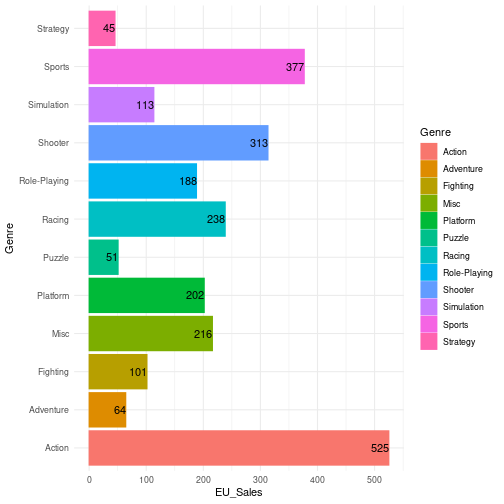
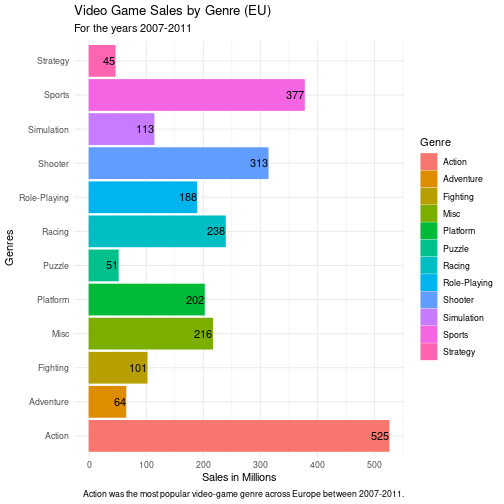
Modified formatting and typos, started the groundwork for CSS tidying-up, and added graphs for JP region.  Also modified conclusion heavily.
Still major work to be done for formatting tweaks.

diff --git a/projectgroup3/presentation.html b/projectgroup3/presentation.html
@@ -16,7 +16,7 @@ class: center, middle, inverse, title-slide
 ## DATA 325 | Dr. Andrew Hall
 ### Krist Adofo | Taylor Memon | Roey Stern | Nicholas Metzger | Nicholas McKenna
 ### Marymount University
-### 4/15/21
+### 4/16/21
 
 ---
 
@@ -30,7 +30,7 @@ For our Data final project, we chose the “Video Game Sales” dataset from **K
 
 --
 
-“Video Game Sales” was published by Gregory Smith on Kaggle in 2017PerPe. The dataset has a list of video games with sales of over 100,000 copies worldwide between the years 2007-2011. The data was collected from the website VGChartz, which is a business intelligence research firm that was founded in 2005 by Brett Walton. VGChartz offers consumers access to their 55,000+ large database on video games which includes sales data, reviews, news, and a forum. 
+“Video Game Sales” was published by Gregory Smith on Kaggle in 2017. The dataset has a list of video games with sales of over 100,000 copies worldwide between the years 2007-2011. The data was collected from the website VGChartz, which is a business intelligence research firm that was founded in 2005 by Brett Walton. VGChartz offers consumers access to their 55,000+ large database on video games which includes sales data, reviews, news, and a forum. 
 
 ---
 background-image: url("https://techcrunch.com/wp-content/uploads/2020/06/igor-karimov-M1nZU61xTK4-unsplash.jpg?w=1390&amp;crop=1")
@@ -74,7 +74,7 @@ library(formattable)
 library(skimr)
 ```
 --
-Using these packages we can save the dataset using *&lt;u&gt;read_csv&lt;/u&gt;* and later edit our tabels.
+Using these packages we can save the dataset using *&lt;u&gt;read_csv&lt;/u&gt;* and later edit our tables.
 
 
 ```r
@@ -129,7 +129,7 @@ Table: Data summary
 
 
 ```r
-vgslaes_1_glimpse
+vgsales_1_glimpse
 ```
 
 
@@ -290,46 +290,189 @@ class: center
 &lt;/tbody&gt;
 &lt;/table&gt;
 ---
-
-
-```
-## # A tibble: 12 x 2
-##    Genre        EU_Sales
-##    &lt;chr&gt;           &lt;dbl&gt;
-##  1 Action          525  
-##  2 Sports          377. 
-##  3 Shooter         313. 
-##  4 Racing          238. 
-##  5 Misc            216. 
-##  6 Platform        202. 
-##  7 Role-Playing    188. 
-##  8 Simulation      113. 
-##  9 Fighting        101. 
-## 10 Adventure        64.1
-## 11 Puzzle           50.8
-## 12 Strategy         45.3
-```
-
+column-count: 3;
+column-width: auto;
+#Regional Breakdown
 ---
 
+&lt;table class="table table-condensed"&gt;
+ &lt;thead&gt;
+  &lt;tr&gt;
+   &lt;th style="text-align:center;"&gt; Genre &lt;/th&gt;
+   &lt;th style="text-align:center;"&gt; EU_Sales &lt;/th&gt;
+  &lt;/tr&gt;
+ &lt;/thead&gt;
+&lt;tbody&gt;
+  &lt;tr&gt;
+   &lt;td style="text-align:center;"&gt; &lt;span style="color: orange; font-weight: bold"&gt;Action      &lt;/span&gt; &lt;/td&gt;
+   &lt;td style="text-align:center;"&gt; &lt;span style="display: block; padding: 0 4px; border-radius: 4px; background-color: #add8e6"&gt;525.00&lt;/span&gt; &lt;/td&gt;
+  &lt;/tr&gt;
+  &lt;tr&gt;
+   &lt;td style="text-align:center;"&gt; &lt;span style="color: orange; font-weight: bold"&gt;Sports      &lt;/span&gt; &lt;/td&gt;
+   &lt;td style="text-align:center;"&gt; &lt;span style="display: block; padding: 0 4px; border-radius: 4px; background-color: #add8e6"&gt;376.85&lt;/span&gt; &lt;/td&gt;
+  &lt;/tr&gt;
+  &lt;tr&gt;
+   &lt;td style="text-align:center;"&gt; &lt;span style="color: orange; font-weight: bold"&gt;Shooter     &lt;/span&gt; &lt;/td&gt;
+   &lt;td style="text-align:center;"&gt; &lt;span style="display: block; padding: 0 4px; border-radius: 4px; background-color: #add8e6"&gt;313.27&lt;/span&gt; &lt;/td&gt;
+  &lt;/tr&gt;
+  &lt;tr&gt;
+   &lt;td style="text-align:center;"&gt; &lt;span style="color: orange; font-weight: bold"&gt;Racing      &lt;/span&gt; &lt;/td&gt;
+   &lt;td style="text-align:center;"&gt; &lt;span style="display: block; padding: 0 4px; border-radius: 4px; background-color: #add8e6"&gt;238.39&lt;/span&gt; &lt;/td&gt;
+  &lt;/tr&gt;
+  &lt;tr&gt;
+   &lt;td style="text-align:center;"&gt; &lt;span style="color: orange; font-weight: bold"&gt;Misc        &lt;/span&gt; &lt;/td&gt;
+   &lt;td style="text-align:center;"&gt; &lt;span style="display: block; padding: 0 4px; border-radius: 4px; background-color: #add8e6"&gt;215.98&lt;/span&gt; &lt;/td&gt;
+  &lt;/tr&gt;
+  &lt;tr&gt;
+   &lt;td style="text-align:center;"&gt; &lt;span style="color: orange; font-weight: bold"&gt;Platform    &lt;/span&gt; &lt;/td&gt;
+   &lt;td style="text-align:center;"&gt; &lt;span style="display: block; padding: 0 4px; border-radius: 4px; background-color: #add8e6"&gt;201.63&lt;/span&gt; &lt;/td&gt;
+  &lt;/tr&gt;
+  &lt;tr&gt;
+   &lt;td style="text-align:center;"&gt; &lt;span style="color: orange; font-weight: bold"&gt;Role-Playing&lt;/span&gt; &lt;/td&gt;
+   &lt;td style="text-align:center;"&gt; &lt;span style="display: block; padding: 0 4px; border-radius: 4px; background-color: #add8e6"&gt;188.06&lt;/span&gt; &lt;/td&gt;
+  &lt;/tr&gt;
+  &lt;tr&gt;
+   &lt;td style="text-align:center;"&gt; &lt;span style="color: orange; font-weight: bold"&gt;Simulation  &lt;/span&gt; &lt;/td&gt;
+   &lt;td style="text-align:center;"&gt; &lt;span style="display: block; padding: 0 4px; border-radius: 4px; background-color: #add8e6"&gt;113.38&lt;/span&gt; &lt;/td&gt;
+  &lt;/tr&gt;
+  &lt;tr&gt;
+   &lt;td style="text-align:center;"&gt; &lt;span style="color: orange; font-weight: bold"&gt;Fighting    &lt;/span&gt; &lt;/td&gt;
+   &lt;td style="text-align:center;"&gt; &lt;span style="display: block; padding: 0 4px; border-radius: 4px; background-color: #add8e6"&gt;101.32&lt;/span&gt; &lt;/td&gt;
+  &lt;/tr&gt;
+  &lt;tr&gt;
+   &lt;td style="text-align:center;"&gt; &lt;span style="color: orange; font-weight: bold"&gt;Adventure   &lt;/span&gt; &lt;/td&gt;
+   &lt;td style="text-align:center;"&gt; &lt;span style="display: block; padding: 0 4px; border-radius: 4px; background-color: #add8e6"&gt;64.13&lt;/span&gt; &lt;/td&gt;
+  &lt;/tr&gt;
+  &lt;tr&gt;
+   &lt;td style="text-align:center;"&gt; &lt;span style="color: orange; font-weight: bold"&gt;Puzzle      &lt;/span&gt; &lt;/td&gt;
+   &lt;td style="text-align:center;"&gt; &lt;span style="display: block; padding: 0 4px; border-radius: 4px; background-color: #add8e6"&gt;50.78&lt;/span&gt; &lt;/td&gt;
+  &lt;/tr&gt;
+  &lt;tr&gt;
+   &lt;td style="text-align:center;"&gt; &lt;span style="color: orange; font-weight: bold"&gt;Strategy    &lt;/span&gt; &lt;/td&gt;
+   &lt;td style="text-align:center;"&gt; &lt;span style="display: block; padding: 0 4px; border-radius: 4px; background-color: #add8e6"&gt;45.34&lt;/span&gt; &lt;/td&gt;
+  &lt;/tr&gt;
+&lt;/tbody&gt;
+&lt;/table&gt;
+---
 
-```
-## # A tibble: 12 x 2
-##    Genre        NA_Sales
-##    &lt;chr&gt;           &lt;dbl&gt;
-##  1 Action          878. 
-##  2 Sports          683. 
-##  3 Shooter         583. 
-##  4 Platform        447. 
-##  5 Misc            410. 
-##  6 Racing          359. 
-##  7 Role-Playing    327. 
-##  8 Fighting        224. 
-##  9 Simulation      183. 
-## 10 Puzzle          124. 
-## 11 Adventure       106. 
-## 12 Strategy         68.7
-```
+&lt;table class="table table-condensed"&gt;
+ &lt;thead&gt;
+  &lt;tr&gt;
+   &lt;th style="text-align:center;"&gt; Genre &lt;/th&gt;
+   &lt;th style="text-align:center;"&gt; NA_Sales &lt;/th&gt;
+  &lt;/tr&gt;
+ &lt;/thead&gt;
+&lt;tbody&gt;
+  &lt;tr&gt;
+   &lt;td style="text-align:center;"&gt; &lt;span style="color: orange; font-weight: bold"&gt;Action      &lt;/span&gt; &lt;/td&gt;
+   &lt;td style="text-align:center;"&gt; &lt;span style="display: block; padding: 0 4px; border-radius: 4px; background-color: #add8e6"&gt;877.83&lt;/span&gt; &lt;/td&gt;
+  &lt;/tr&gt;
+  &lt;tr&gt;
+   &lt;td style="text-align:center;"&gt; &lt;span style="color: orange; font-weight: bold"&gt;Sports      &lt;/span&gt; &lt;/td&gt;
+   &lt;td style="text-align:center;"&gt; &lt;span style="display: block; padding: 0 4px; border-radius: 4px; background-color: #add8e6"&gt;683.35&lt;/span&gt; &lt;/td&gt;
+  &lt;/tr&gt;
+  &lt;tr&gt;
+   &lt;td style="text-align:center;"&gt; &lt;span style="color: orange; font-weight: bold"&gt;Shooter     &lt;/span&gt; &lt;/td&gt;
+   &lt;td style="text-align:center;"&gt; &lt;span style="display: block; padding: 0 4px; border-radius: 4px; background-color: #add8e6"&gt;582.60&lt;/span&gt; &lt;/td&gt;
+  &lt;/tr&gt;
+  &lt;tr&gt;
+   &lt;td style="text-align:center;"&gt; &lt;span style="color: orange; font-weight: bold"&gt;Platform    &lt;/span&gt; &lt;/td&gt;
+   &lt;td style="text-align:center;"&gt; &lt;span style="display: block; padding: 0 4px; border-radius: 4px; background-color: #add8e6"&gt;447.05&lt;/span&gt; &lt;/td&gt;
+  &lt;/tr&gt;
+  &lt;tr&gt;
+   &lt;td style="text-align:center;"&gt; &lt;span style="color: orange; font-weight: bold"&gt;Misc        &lt;/span&gt; &lt;/td&gt;
+   &lt;td style="text-align:center;"&gt; &lt;span style="display: block; padding: 0 4px; border-radius: 4px; background-color: #add8e6"&gt;410.24&lt;/span&gt; &lt;/td&gt;
+  &lt;/tr&gt;
+  &lt;tr&gt;
+   &lt;td style="text-align:center;"&gt; &lt;span style="color: orange; font-weight: bold"&gt;Racing      &lt;/span&gt; &lt;/td&gt;
+   &lt;td style="text-align:center;"&gt; &lt;span style="display: block; padding: 0 4px; border-radius: 4px; background-color: #add8e6"&gt;359.42&lt;/span&gt; &lt;/td&gt;
+  &lt;/tr&gt;
+  &lt;tr&gt;
+   &lt;td style="text-align:center;"&gt; &lt;span style="color: orange; font-weight: bold"&gt;Role-Playing&lt;/span&gt; &lt;/td&gt;
+   &lt;td style="text-align:center;"&gt; &lt;span style="display: block; padding: 0 4px; border-radius: 4px; background-color: #add8e6"&gt;327.28&lt;/span&gt; &lt;/td&gt;
+  &lt;/tr&gt;
+  &lt;tr&gt;
+   &lt;td style="text-align:center;"&gt; &lt;span style="color: orange; font-weight: bold"&gt;Fighting    &lt;/span&gt; &lt;/td&gt;
+   &lt;td style="text-align:center;"&gt; &lt;span style="display: block; padding: 0 4px; border-radius: 4px; background-color: #add8e6"&gt;223.59&lt;/span&gt; &lt;/td&gt;
+  &lt;/tr&gt;
+  &lt;tr&gt;
+   &lt;td style="text-align:center;"&gt; &lt;span style="color: orange; font-weight: bold"&gt;Simulation  &lt;/span&gt; &lt;/td&gt;
+   &lt;td style="text-align:center;"&gt; &lt;span style="display: block; padding: 0 4px; border-radius: 4px; background-color: #add8e6"&gt;183.31&lt;/span&gt; &lt;/td&gt;
+  &lt;/tr&gt;
+  &lt;tr&gt;
+   &lt;td style="text-align:center;"&gt; &lt;span style="color: orange; font-weight: bold"&gt;Puzzle      &lt;/span&gt; &lt;/td&gt;
+   &lt;td style="text-align:center;"&gt; &lt;span style="display: block; padding: 0 4px; border-radius: 4px; background-color: #add8e6"&gt;123.78&lt;/span&gt; &lt;/td&gt;
+  &lt;/tr&gt;
+  &lt;tr&gt;
+   &lt;td style="text-align:center;"&gt; &lt;span style="color: orange; font-weight: bold"&gt;Adventure   &lt;/span&gt; &lt;/td&gt;
+   &lt;td style="text-align:center;"&gt; &lt;span style="display: block; padding: 0 4px; border-radius: 4px; background-color: #add8e6"&gt;105.80&lt;/span&gt; &lt;/td&gt;
+  &lt;/tr&gt;
+  &lt;tr&gt;
+   &lt;td style="text-align:center;"&gt; &lt;span style="color: orange; font-weight: bold"&gt;Strategy    &lt;/span&gt; &lt;/td&gt;
+   &lt;td style="text-align:center;"&gt; &lt;span style="display: block; padding: 0 4px; border-radius: 4px; background-color: #add8e6"&gt;68.70&lt;/span&gt; &lt;/td&gt;
+  &lt;/tr&gt;
+&lt;/tbody&gt;
+&lt;/table&gt;
+---
+
+&lt;table class="table table-condensed"&gt;
+ &lt;thead&gt;
+  &lt;tr&gt;
+   &lt;th style="text-align:center;"&gt; Genre &lt;/th&gt;
+   &lt;th style="text-align:center;"&gt; JP_Sales &lt;/th&gt;
+  &lt;/tr&gt;
+ &lt;/thead&gt;
+&lt;tbody&gt;
+  &lt;tr&gt;
+   &lt;td style="text-align:center;"&gt; &lt;span style="color: orange; font-weight: bold"&gt;Role-Playing&lt;/span&gt; &lt;/td&gt;
+   &lt;td style="text-align:center;"&gt; &lt;span style="display: block; padding: 0 4px; border-radius: 4px; background-color: #add8e6"&gt;352.31&lt;/span&gt; &lt;/td&gt;
+  &lt;/tr&gt;
+  &lt;tr&gt;
+   &lt;td style="text-align:center;"&gt; &lt;span style="color: orange; font-weight: bold"&gt;Action      &lt;/span&gt; &lt;/td&gt;
+   &lt;td style="text-align:center;"&gt; &lt;span style="display: block; padding: 0 4px; border-radius: 4px; background-color: #add8e6"&gt;159.95&lt;/span&gt; &lt;/td&gt;
+  &lt;/tr&gt;
+  &lt;tr&gt;
+   &lt;td style="text-align:center;"&gt; &lt;span style="color: orange; font-weight: bold"&gt;Sports      &lt;/span&gt; &lt;/td&gt;
+   &lt;td style="text-align:center;"&gt; &lt;span style="display: block; padding: 0 4px; border-radius: 4px; background-color: #add8e6"&gt;135.37&lt;/span&gt; &lt;/td&gt;
+  &lt;/tr&gt;
+  &lt;tr&gt;
+   &lt;td style="text-align:center;"&gt; &lt;span style="color: orange; font-weight: bold"&gt;Platform    &lt;/span&gt; &lt;/td&gt;
+   &lt;td style="text-align:center;"&gt; &lt;span style="display: block; padding: 0 4px; border-radius: 4px; background-color: #add8e6"&gt;130.77&lt;/span&gt; &lt;/td&gt;
+  &lt;/tr&gt;
+  &lt;tr&gt;
+   &lt;td style="text-align:center;"&gt; &lt;span style="color: orange; font-weight: bold"&gt;Misc        &lt;/span&gt; &lt;/td&gt;
+   &lt;td style="text-align:center;"&gt; &lt;span style="display: block; padding: 0 4px; border-radius: 4px; background-color: #add8e6"&gt;107.76&lt;/span&gt; &lt;/td&gt;
+  &lt;/tr&gt;
+  &lt;tr&gt;
+   &lt;td style="text-align:center;"&gt; &lt;span style="color: orange; font-weight: bold"&gt;Fighting    &lt;/span&gt; &lt;/td&gt;
+   &lt;td style="text-align:center;"&gt; &lt;span style="display: block; padding: 0 4px; border-radius: 4px; background-color: #add8e6"&gt;87.35&lt;/span&gt; &lt;/td&gt;
+  &lt;/tr&gt;
+  &lt;tr&gt;
+   &lt;td style="text-align:center;"&gt; &lt;span style="color: orange; font-weight: bold"&gt;Simulation  &lt;/span&gt; &lt;/td&gt;
+   &lt;td style="text-align:center;"&gt; &lt;span style="display: block; padding: 0 4px; border-radius: 4px; background-color: #add8e6"&gt;63.70&lt;/span&gt; &lt;/td&gt;
+  &lt;/tr&gt;
+  &lt;tr&gt;
+   &lt;td style="text-align:center;"&gt; &lt;span style="color: orange; font-weight: bold"&gt;Puzzle      &lt;/span&gt; &lt;/td&gt;
+   &lt;td style="text-align:center;"&gt; &lt;span style="display: block; padding: 0 4px; border-radius: 4px; background-color: #add8e6"&gt;57.31&lt;/span&gt; &lt;/td&gt;
+  &lt;/tr&gt;
+  &lt;tr&gt;
+   &lt;td style="text-align:center;"&gt; &lt;span style="color: orange; font-weight: bold"&gt;Racing      &lt;/span&gt; &lt;/td&gt;
+   &lt;td style="text-align:center;"&gt; &lt;span style="display: block; padding: 0 4px; border-radius: 4px; background-color: #add8e6"&gt;56.69&lt;/span&gt; &lt;/td&gt;
+  &lt;/tr&gt;
+  &lt;tr&gt;
+   &lt;td style="text-align:center;"&gt; &lt;span style="color: orange; font-weight: bold"&gt;Adventure   &lt;/span&gt; &lt;/td&gt;
+   &lt;td style="text-align:center;"&gt; &lt;span style="display: block; padding: 0 4px; border-radius: 4px; background-color: #add8e6"&gt;52.07&lt;/span&gt; &lt;/td&gt;
+  &lt;/tr&gt;
+  &lt;tr&gt;
+   &lt;td style="text-align:center;"&gt; &lt;span style="color: orange; font-weight: bold"&gt;Strategy    &lt;/span&gt; &lt;/td&gt;
+   &lt;td style="text-align:center;"&gt; &lt;span style="display: block; padding: 0 4px; border-radius: 4px; background-color: #add8e6"&gt;49.46&lt;/span&gt; &lt;/td&gt;
+  &lt;/tr&gt;
+  &lt;tr&gt;
+   &lt;td style="text-align:center;"&gt; &lt;span style="color: orange; font-weight: bold"&gt;Shooter     &lt;/span&gt; &lt;/td&gt;
+   &lt;td style="text-align:center;"&gt; &lt;span style="display: block; padding: 0 4px; border-radius: 4px; background-color: #add8e6"&gt;38.28&lt;/span&gt; &lt;/td&gt;
+  &lt;/tr&gt;
+&lt;/tbody&gt;
+&lt;/table&gt;
 
 ---
 background-image: url("https://techcrunch.com/wp-content/uploads/2020/06/igor-karimov-M1nZU61xTK4-unsplash.jpg?w=1390&amp;crop=1")
@@ -337,12 +480,19 @@ class: center, top
 &lt;img src="presentation_files/figure-html/Plot1-1.png" width="85%" height="75%" /&gt;
 
 ---
-
+background-image: url("https://techcrunch.com/wp-content/uploads/2020/06/igor-karimov-M1nZU61xTK4-unsplash.jpg?w=1390&amp;crop=1")
+class: center, top
 ![](presentation_files/figure-html/Plot2-1.png)&lt;!-- --&gt;
 
 ---
-
+background-image: url("https://techcrunch.com/wp-content/uploads/2020/06/igor-karimov-M1nZU61xTK4-unsplash.jpg?w=1390&amp;crop=1")
+class: center, top
 ![](presentation_files/figure-html/Plot3-1.png)&lt;!-- --&gt;
+
+---
+background-image: url("https://techcrunch.com/wp-content/uploads/2020/06/igor-karimov-M1nZU61xTK4-unsplash.jpg?w=1390&amp;crop=1")
+class: center, top
+![](presentation_files/figure-html/Plot4-1.png)&lt;!-- --&gt;
 ---
 background-image: url("https://techcrunch.com/wp-content/uploads/2020/06/igor-karimov-M1nZU61xTK4-unsplash.jpg?w=1390&amp;crop=1")
 background-position: top right
@@ -350,19 +500,23 @@ background-size: 150px 155px
 #Summary
 --
 
-* Most popular video-game genre in Europe is 
+* The most popular video-game genre (globally) is *Action.*
 
 --
 
-* Most popular video-game genre in Japan is
+* Other trending genres, by region:
 
 --
 
-* Most popular video-game genre in the USA is
++ In Japan, Role-Playing Games (RPGs) are most popular by a large margin.
 
 --
 
-* Most popular video-game genre in the world is 
++ In North America, Action games are most popular; Shooters and Sports games also have strong sales.
+
+--
+
++ Europe's trends are similar to those of North America.
     </textarea>
 <style data-target="print-only">@media screen {.remark-slide-container{display:block;}.remark-slide-scaler{box-shadow:none;}}</style>
 <script src="https://remarkjs.com/downloads/remark-latest.min.js"></script>

diff --git a/projectgroup3/games-presentation.css b/projectgroup3/games-presentation.css
@@ -1,0 +1,4 @@
+.skimslide
+{
+
+}

diff --git a/group3.md b/group3.md
@@ -91,17 +91,17 @@ glimpse(vgsales)
 
     ## Rows: 16,598
     ## Columns: 11
-    ## $ Rank         <dbl> 1, 2, 3, 4, 5, 6, 7, 8, 9, 10, 11, 12, 13, 14, 15, 16, 1…
-    ## $ Name         <chr> "Wii Sports", "Super Mario Bros.", "Mario Kart Wii", "Wi…
-    ## $ Platform     <chr> "Wii", "NES", "Wii", "Wii", "GB", "GB", "DS", "Wii", "Wi…
-    ## $ Year         <chr> "2006", "1985", "2008", "2009", "1996", "1989", "2006", …
-    ## $ Genre        <chr> "Sports", "Platform", "Racing", "Sports", "Role-Playing"…
-    ## $ Publisher    <chr> "Nintendo", "Nintendo", "Nintendo", "Nintendo", "Nintend…
-    ## $ NA_Sales     <dbl> 41.49, 29.08, 15.85, 15.75, 11.27, 23.20, 11.38, 14.03, …
-    ## $ EU_Sales     <dbl> 29.02, 3.58, 12.88, 11.01, 8.89, 2.26, 9.23, 9.20, 7.06,…
-    ## $ JP_Sales     <dbl> 3.77, 6.81, 3.79, 3.28, 10.22, 4.22, 6.50, 2.93, 4.70, 0…
-    ## $ Other_Sales  <dbl> 8.46, 0.77, 3.31, 2.96, 1.00, 0.58, 2.90, 2.85, 2.26, 0.…
-    ## $ Global_Sales <dbl> 82.74, 40.24, 35.82, 33.00, 31.37, 30.26, 30.01, 29.02, …
+    ## $ Rank         <dbl> 1, 2, 3, 4, 5, 6, 7, 8, 9, 10, 11, 12, 13, 14, 15, 16, 17…
+    ## $ Name         <chr> "Wii Sports", "Super Mario Bros.", "Mario Kart Wii", "Wii…
+    ## $ Platform     <chr> "Wii", "NES", "Wii", "Wii", "GB", "GB", "DS", "Wii", "Wii…
+    ## $ Year         <chr> "2006", "1985", "2008", "2009", "1996", "1989", "2006", "…
+    ## $ Genre        <chr> "Sports", "Platform", "Racing", "Sports", "Role-Playing",…
+    ## $ Publisher    <chr> "Nintendo", "Nintendo", "Nintendo", "Nintendo", "Nintendo…
+    ## $ NA_Sales     <dbl> 41.49, 29.08, 15.85, 15.75, 11.27, 23.20, 11.38, 14.03, 1…
+    ## $ EU_Sales     <dbl> 29.02, 3.58, 12.88, 11.01, 8.89, 2.26, 9.23, 9.20, 7.06, …
+    ## $ JP_Sales     <dbl> 3.77, 6.81, 3.79, 3.28, 10.22, 4.22, 6.50, 2.93, 4.70, 0.…
+    ## $ Other_Sales  <dbl> 8.46, 0.77, 3.31, 2.96, 1.00, 0.58, 2.90, 2.85, 2.26, 0.4…
+    ## $ Global_Sales <dbl> 82.74, 40.24, 35.82, 33.00, 31.37, 30.26, 30.01, 29.02, 2…
 
 **<u>Data Analysis Plan</u>**
 
